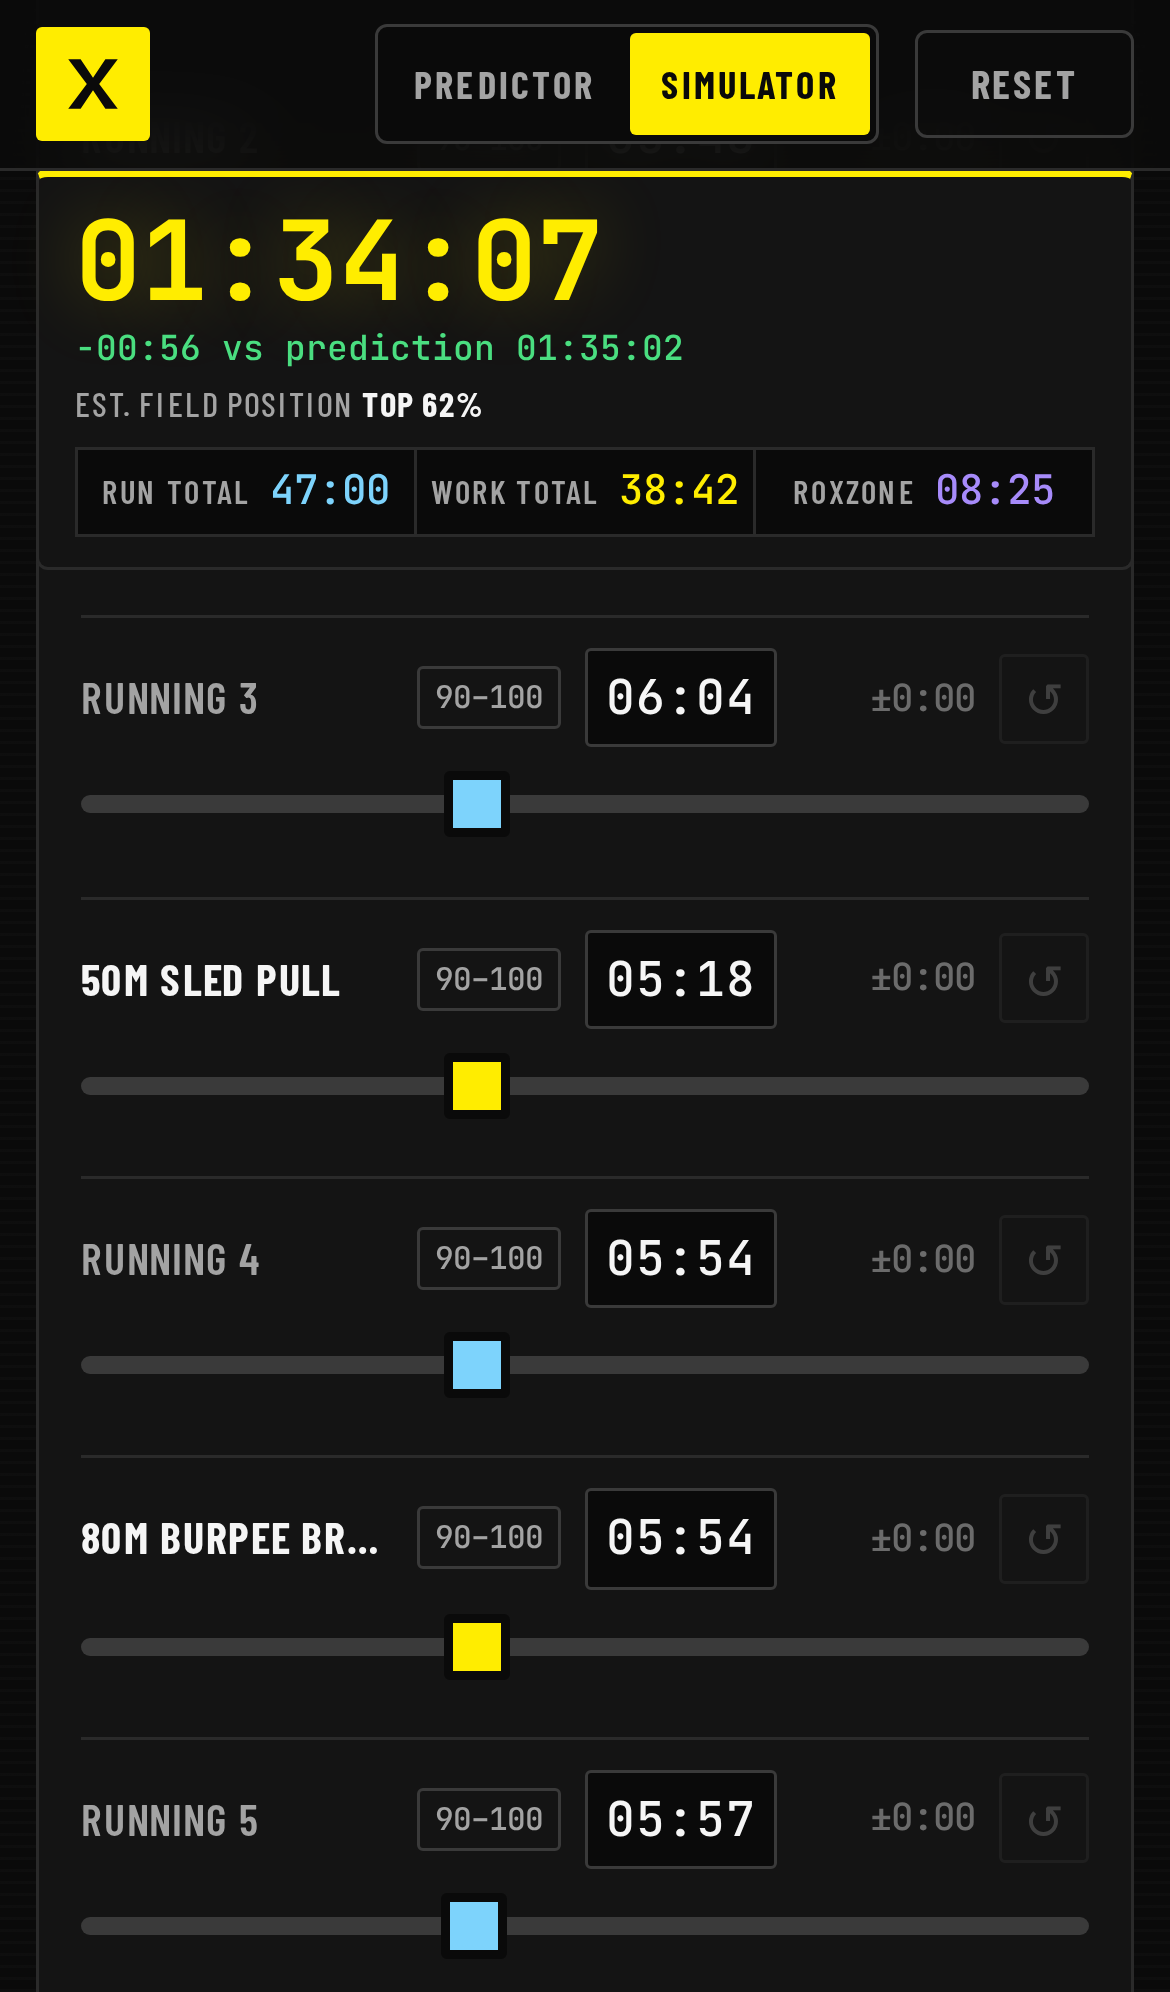
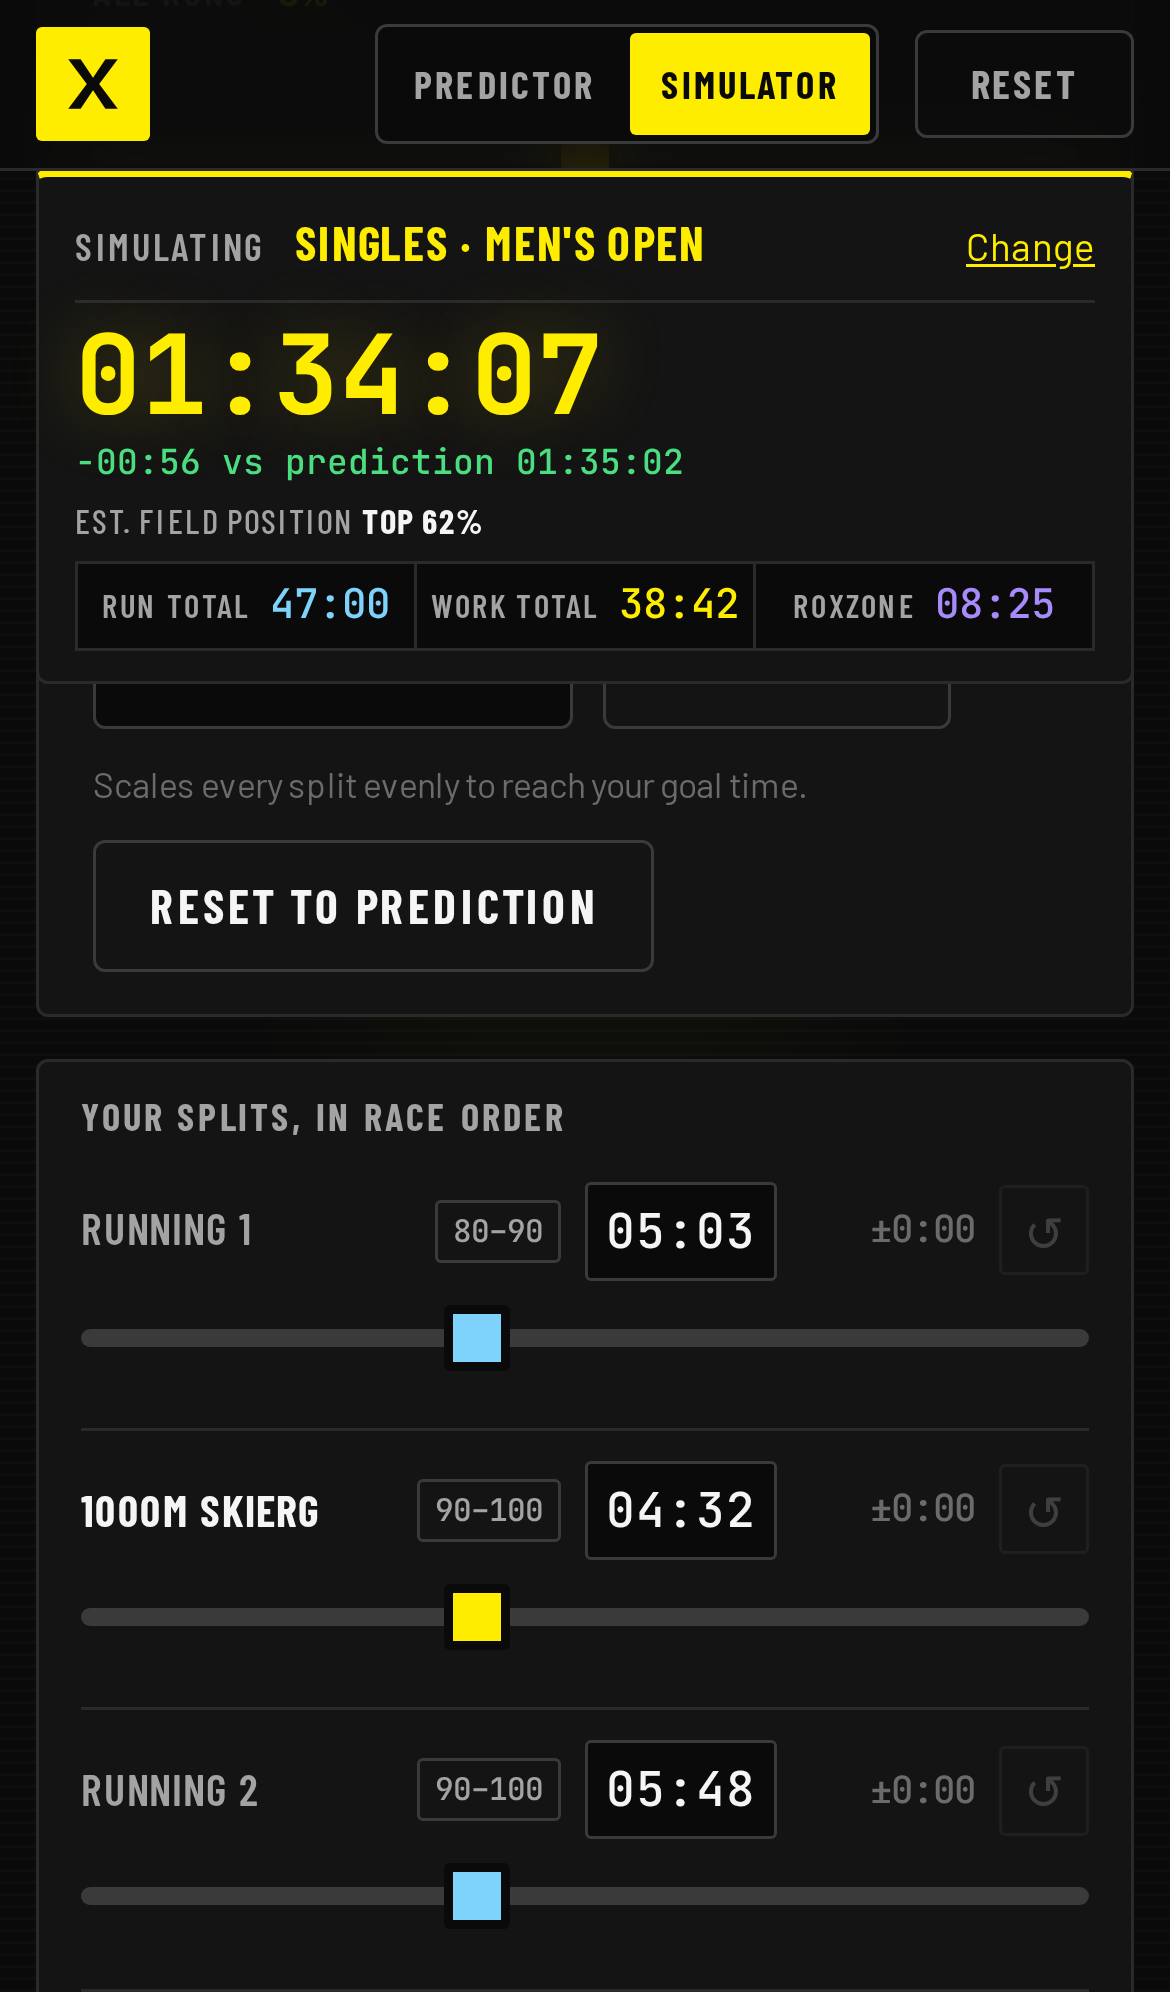
Simulator: say what it simulates and how to use it
Shows the format, division and team ('team times') it's simulating with a
Change link; adds a collapsible How-to (change one split, shift everything,
work back from a target), section titles and control hints. E2E tests added.

Claude-Session: https://claude.ai/code/session_013Dp4gjA5muRSAomANQ1Mvi

diff --git a/src/app/components/simulator-page.html b/src/app/components/simulator-page.html
@@ -1,9 +1,15 @@
 <div class="sim">
   <section class="panel scoreboard" aria-labelledby="sim-title">
+    <p class="simulating" role="status">
+      <span class="label">Simulating</span>
+      <strong>{{ formatLabel() }} · {{ store.division().name }}</strong>
+      @if (teamNames(); as t) { <span class="who">{{ t }} · team times</span> }
+      <a href="#" class="change">Change</a>
+    </p>
     <div class="sb-left">
-      <span class="label">Race simulator · {{ store.division().name }}</span>
-      <h1 id="sim-title">Drag your splits</h1>
-      <p class="sub">Starts from your prediction. Move any slider (or type a time) to see what it does to your finish.</p>
+      <h1 id="sim-title">Race simulator</h1>
+      <p class="sub">What if you ran faster, or lost less time on the sleds? Change any split and see your finish time and
+        field position update.</p>
     </div>
     <div class="sb-clock">
       <div class="clock mono" aria-live="polite">{{ fmt(total(), true) }}</div>
@@ -22,14 +28,34 @@
     </div>
   </section>
 
+  <section class="panel help" aria-labelledby="sim-help-title">
+    <h2 id="sim-help-title"><app-fold key="sim-help" controls="sim-help-body">How to use the simulator</app-fold></h2>
+    <div id="sim-help-body" [hidden]="!fold.isOpen('sim-help')">
+      <p>
+        It starts from your <b>predicted splits</b> for the division above{{ formatNote() }}. Nothing here changes your
+        profile or your prediction; it's a scratchpad for race plans and "what ifs".
+      </p>
+      <ol>
+        <li><b>Change one split:</b> drag its slider or type a time, e.g. see what a 30 s faster sled push is worth.</li>
+        <li><b>Shift everything:</b> move <i>All runs</i> or <i>All stations</i> by a percentage (negative = faster).</li>
+        <li><b>Work back from a goal:</b> type a target finish and tap <i>Hit target</i> to see the splits you'd need.</li>
+      </ol>
+      <p class="dim">↺ resets one split; <i>Reset to prediction</i> resets everything. @if (showBands()) { The small tag
+        on each split shows which finish band it's typical of, e.g. "80–90" means typical of 80–90 minute finishers. }</p>
+    </div>
+  </section>
+
   <section class="panel controls" aria-label="Simulator controls">
+    <h2 class="ctl-title">Quick changes</h2>
     <label class="scale">
       <span class="label">All runs <b class="mono">{{ runScale() > 0 ? '+' : '' }}{{ runScale() }}%</b></span>
+      <span class="hint">Slide left to run every km faster</span>
       <input type="range" min="-30" max="30" step="1" [value]="runScale()" aria-label="Scale all runs, percent"
         (input)="runScale.set(+$any($event.target).value)" />
     </label>
     <label class="scale">
       <span class="label">All stations <b class="mono">{{ stationScale() > 0 ? '+' : '' }}{{ stationScale() }}%</b></span>
+      <span class="hint">Slide left to do every station faster</span>
       <input type="range" min="-30" max="30" step="1" [value]="stationScale()" aria-label="Scale all stations, percent"
         (input)="stationScale.set(+$any($event.target).value)" />
     </label>
@@ -40,11 +66,13 @@
           (keydown.enter)="hitTarget()" aria-label="Target finish time" />
       </label>
       <button type="button" class="btn" (click)="hitTarget()">Hit target</button>
+      <span class="hint t-hint">Scales every split evenly to reach your goal time.</span>
       <button type="button" class="btn ghost" [disabled]="!changed()" (click)="resetAll()">Reset to prediction</button>
     </div>
   </section>
 
-  <section class="panel rows" aria-label="Splits">
+  <section class="panel rows" aria-labelledby="sim-splits-title">
+    <h2 id="sim-splits-title" class="rows-title">Your splits, in race order</h2>
     @for (r of rows(); track r.key; let i = $index) {
       @let v = values()[i];
       <div class="row" [attr.data-kind]="r.kind" [class.edited]="edits()[r.key] != null">
@@ -62,6 +90,5 @@
       </div>
     }
   </section>
-  <p class="foot">Band tags show which finish-time band a split is typical of (singles, from results data).
-    The simulator doesn't change your prediction inputs.</p>
+  <p class="foot">The simulator doesn't change your prediction inputs. Go back to the Predictor to change your profile.</p>
 </div>

diff --git a/src/app/components/simulator-page.ts b/src/app/components/simulator-page.ts
@@ -1,4 +1,6 @@
 import { DecimalPipe } from '@angular/common';
+import { FoldState } from '../core/fold';
+import { FoldToggle } from './fold-toggle';
 import { ChangeDetectionStrategy, Component, computed, inject, signal } from '@angular/core';
 import { weightForAthlete } from '../core/divisions';
 import { ageGroupPosition, loadMultiplier, topPercent } from '../core/predictor';
@@ -24,12 +26,26 @@ interface SimRow {
 @Component({
   selector: 'app-simulator-page',
   changeDetection: ChangeDetectionStrategy.OnPush,
-  imports: [DecimalPipe],
+  imports: [DecimalPipe, FoldToggle],
   templateUrl: './simulator-page.html',
   styleUrl: './simulator-page.scss',
 })
 export class SimulatorPage {
   protected readonly store = inject(PredictorStore);
+  protected readonly fold = inject(FoldState);
+  protected readonly format = computed(() => this.store.division().format);
+  protected readonly formatNote = computed(() =>
+    this.format() === 'doubles' ? " (each station is the pair's time, with the work split you set)"
+      : this.format() === 'relay' ? " (each split is the leg athlete's time)" : '',
+  );
+  protected readonly formatLabel = computed(() => ({ single: 'Singles', doubles: 'Doubles', relay: 'Relay' })[this.format()]);
+  /** Team divisions: who the team is, so it's clear the splits are the team's. */
+  protected readonly teamNames = computed(() => {
+    const team = this.store.teamAthletes();
+    if (team.length < 2) return '';
+    const names = team.map((a, i) => a.name?.trim() || `Athlete ${i + 1}`);
+    return names.length === 2 ? names.join(' & ') : names.join(', ');
+  });
   protected readonly fmt = formatTime;
 
   /** Rows seeded from the current prediction. */

diff --git a/src/app/components/simulator-page.scss b/src/app/components/simulator-page.scss
@@ -7,6 +7,22 @@
 h1 { font-size: clamp(1.6rem, 4vw, 2.4rem); font-weight: 800; margin-top: 4px; }
 .sub { margin: 6px 0 0; color: var(--text-dim); font-size: 0.88rem; max-width: 46ch; }
 .sb-clock { text-align: right; }
+.simulating {
+  grid-column: 1 / -1; margin: 0; display: flex; align-items: baseline; flex-wrap: wrap; gap: 4px 10px;
+  padding-bottom: 8px; border-bottom: 1px solid var(--line);
+  strong { font-family: var(--font-display); text-transform: uppercase; letter-spacing: 0.04em; color: var(--accent); }
+  .who { font-size: 0.8rem; color: var(--text-dim); }
+  .change { margin-left: auto; font-size: 0.8rem; color: var(--accent); }
+}
+.help { padding: 12px 18px; font-size: 0.88rem; color: var(--text-dim);
+  h2 { font-size: 0.95rem; text-transform: uppercase; letter-spacing: 0.05em; margin: 0; }
+  ol { margin: 6px 0; padding-left: 20px; display: grid; gap: 4px; }
+  p { margin: 8px 0; } b { color: var(--text); } .dim { font-size: 0.8rem; color: var(--text-faint); }
+}
+.ctl-title, .rows-title { grid-column: 1 / -1; margin: 0; font-size: 0.8rem; text-transform: uppercase; letter-spacing: 0.08em; color: var(--text-dim); }
+.rows-title { padding: 8px 0 4px; }
+.hint { font-size: 0.74rem; color: var(--text-faint); }
+.t-hint { align-self: center; }
 .clock { font-size: clamp(2.4rem, 8vw, 4.2rem); font-weight: 700; color: var(--accent); line-height: 1; text-shadow: 0 0 24px rgba(255, 237, 0, 0.25); }
 .delta { margin-top: 6px; font-size: 0.85rem; color: var(--text-dim); }
 .faster { color: var(--good) !important; }

diff --git a/e2e/insights-simulator.spec.ts b/e2e/insights-simulator.spec.ts
@@ -231,3 +231,27 @@ test.describe('expert review: doubles tips and new inputs', () => {
     expect(await page.locator('app-ability-card .uses').count()).toBe(10);
   });
 });
+
+test.describe('simulator: what it simulates and how to use it', () => {
+  test('says which division and format it simulates, with team names for doubles', async ({ app, page }) => {
+    await page.getByRole('link', { name: 'Simulator' }).click();
+    const status = page.locator('app-simulator-page .simulating');
+    await expect(status).toContainText("Singles · Men's Open");
+    await page.getByRole('link', { name: 'Change' }).click();
+    await app.division('Mixed Doubles').click();
+    await page.getByRole('link', { name: 'Simulator' }).click();
+    await expect(status).toContainText('Doubles · Mixed Doubles');
+    await expect(status).toContainText('Athlete 1 & Athlete 2 · team times');
+    await expect(page.locator('app-simulator-page .help')).toContainText("each station is the pair's time");
+  });
+
+  test('explains how to use it, and the explanation can be collapsed', async ({ page }) => {
+    await page.getByRole('link', { name: 'Simulator' }).click();
+    const help = page.locator('app-simulator-page .help');
+    await expect(help).toContainText('Change one split');
+    await expect(help).toContainText('Work back from a goal');
+    const toggle = help.getByRole('button', { name: 'How to use the simulator' });
+    await toggle.click();
+    await expect(help.getByText('Change one split')).toBeHidden();
+  });
+});

diff --git a/docs/TUTORIAL.md b/docs/TUTORIAL.md
@@ -166,8 +166,10 @@ it to delete them. Nothing ever leaves your device.
 
 ## 14. Play with the Simulator page
 
-Open **Simulator** in the header, or go straight to `…/#simulator`. It starts from your prediction, with a slider (and a
-time box) for every run, every station and the Roxzone:
+Open **Simulator** in the header, or go straight to `…/#simulator`. The top line says what it's simulating (e.g.
+**Singles · Men's Open**, or the doubles team and "team times"). It's a scratchpad for "what ifs" that never changes your
+prediction. It starts from your predicted splits, with a slider (and a time box) for every run, every station and the
+Roxzone. The **How to use** box explains the three ways to use it:
 - The clock, the difference from your prediction and your estimated field position update as you drag.
 - Tags such as **80–90** show which finish band each split is typical of.
 - Use **All runs** / **All stations** to scale a whole group.

diff --git a/CHANGELOG.md b/CHANGELOG.md
@@ -7,6 +7,12 @@ All notable changes to this project are documented here. The format follows
 ## [Unreleased]
 
 ### Added
+- **Simulator explains itself:**
+  - it says what it's simulating (e.g. "Singles · Men's Open" or "Doubles · Mixed Doubles · Sam & Alex · team times"),
+    with a Change link;
+  - a collapsible "How to use the simulator" box covers the three ways to use it (change one split, shift everything,
+    work back from a target);
+  - controls are labelled "Quick changes" and "Your splits, in race order", with hints.
 - **Wall balls: "Usual set size for 100 reps"** (e.g. sets of 20) is now the main wall-ball input in Quick and Detailed.
   Most people know it, and it's closer to race behaviour than a max-unbroken test. It's converted at sets ≈ 60% of max
   unbroken; max unbroken and 100-for-time stay as alternatives. Gains and reasons are phrased in sets.
